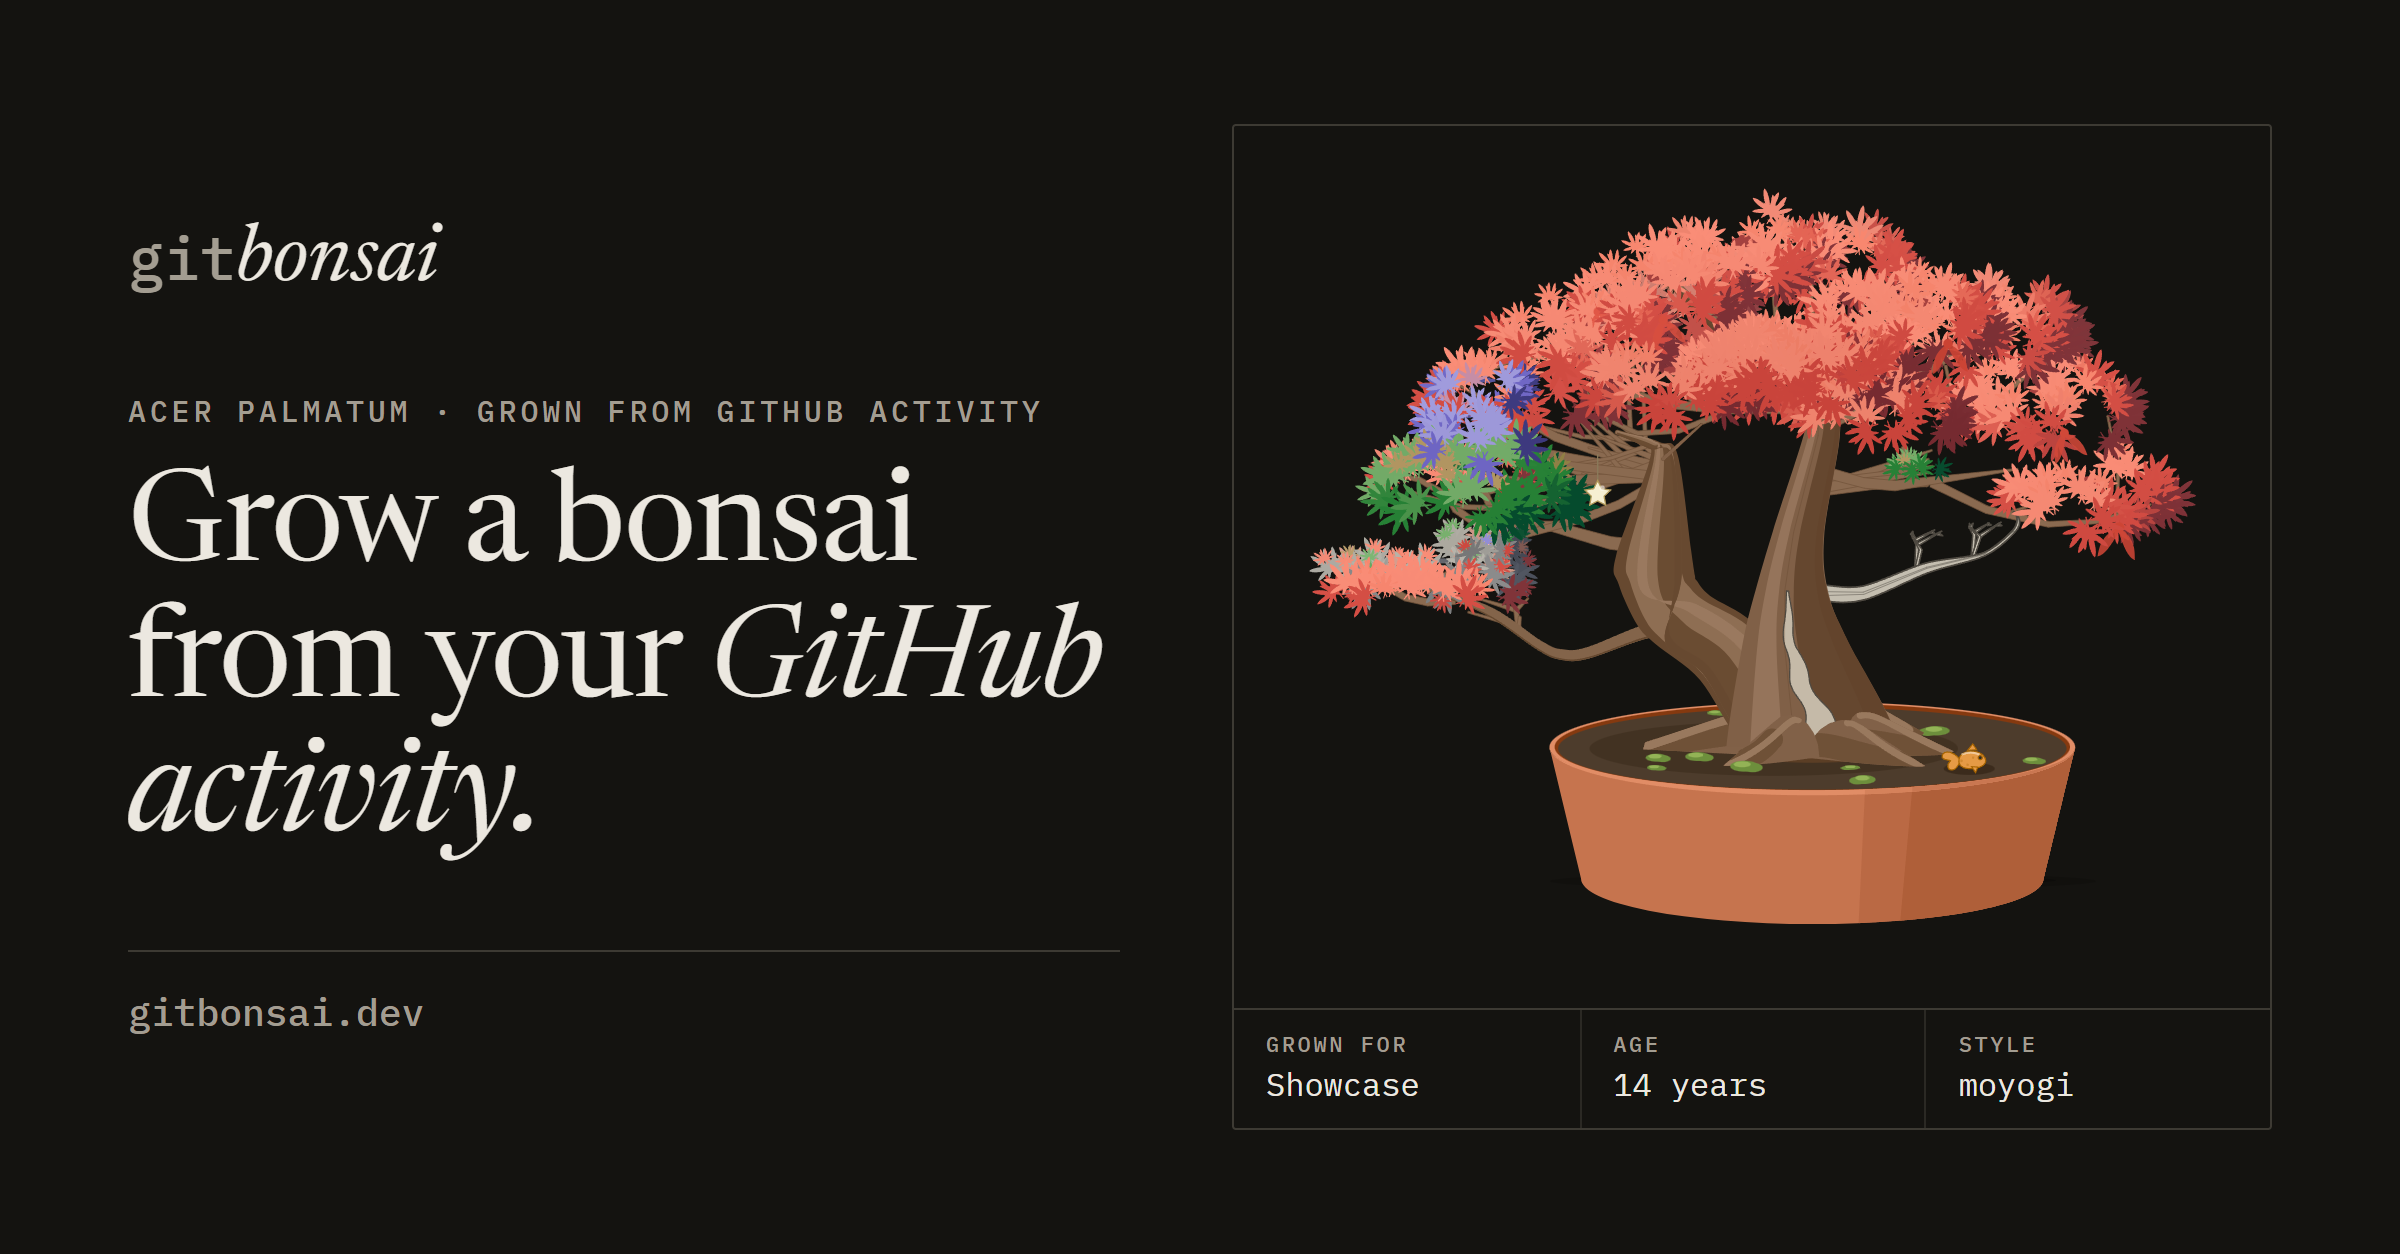
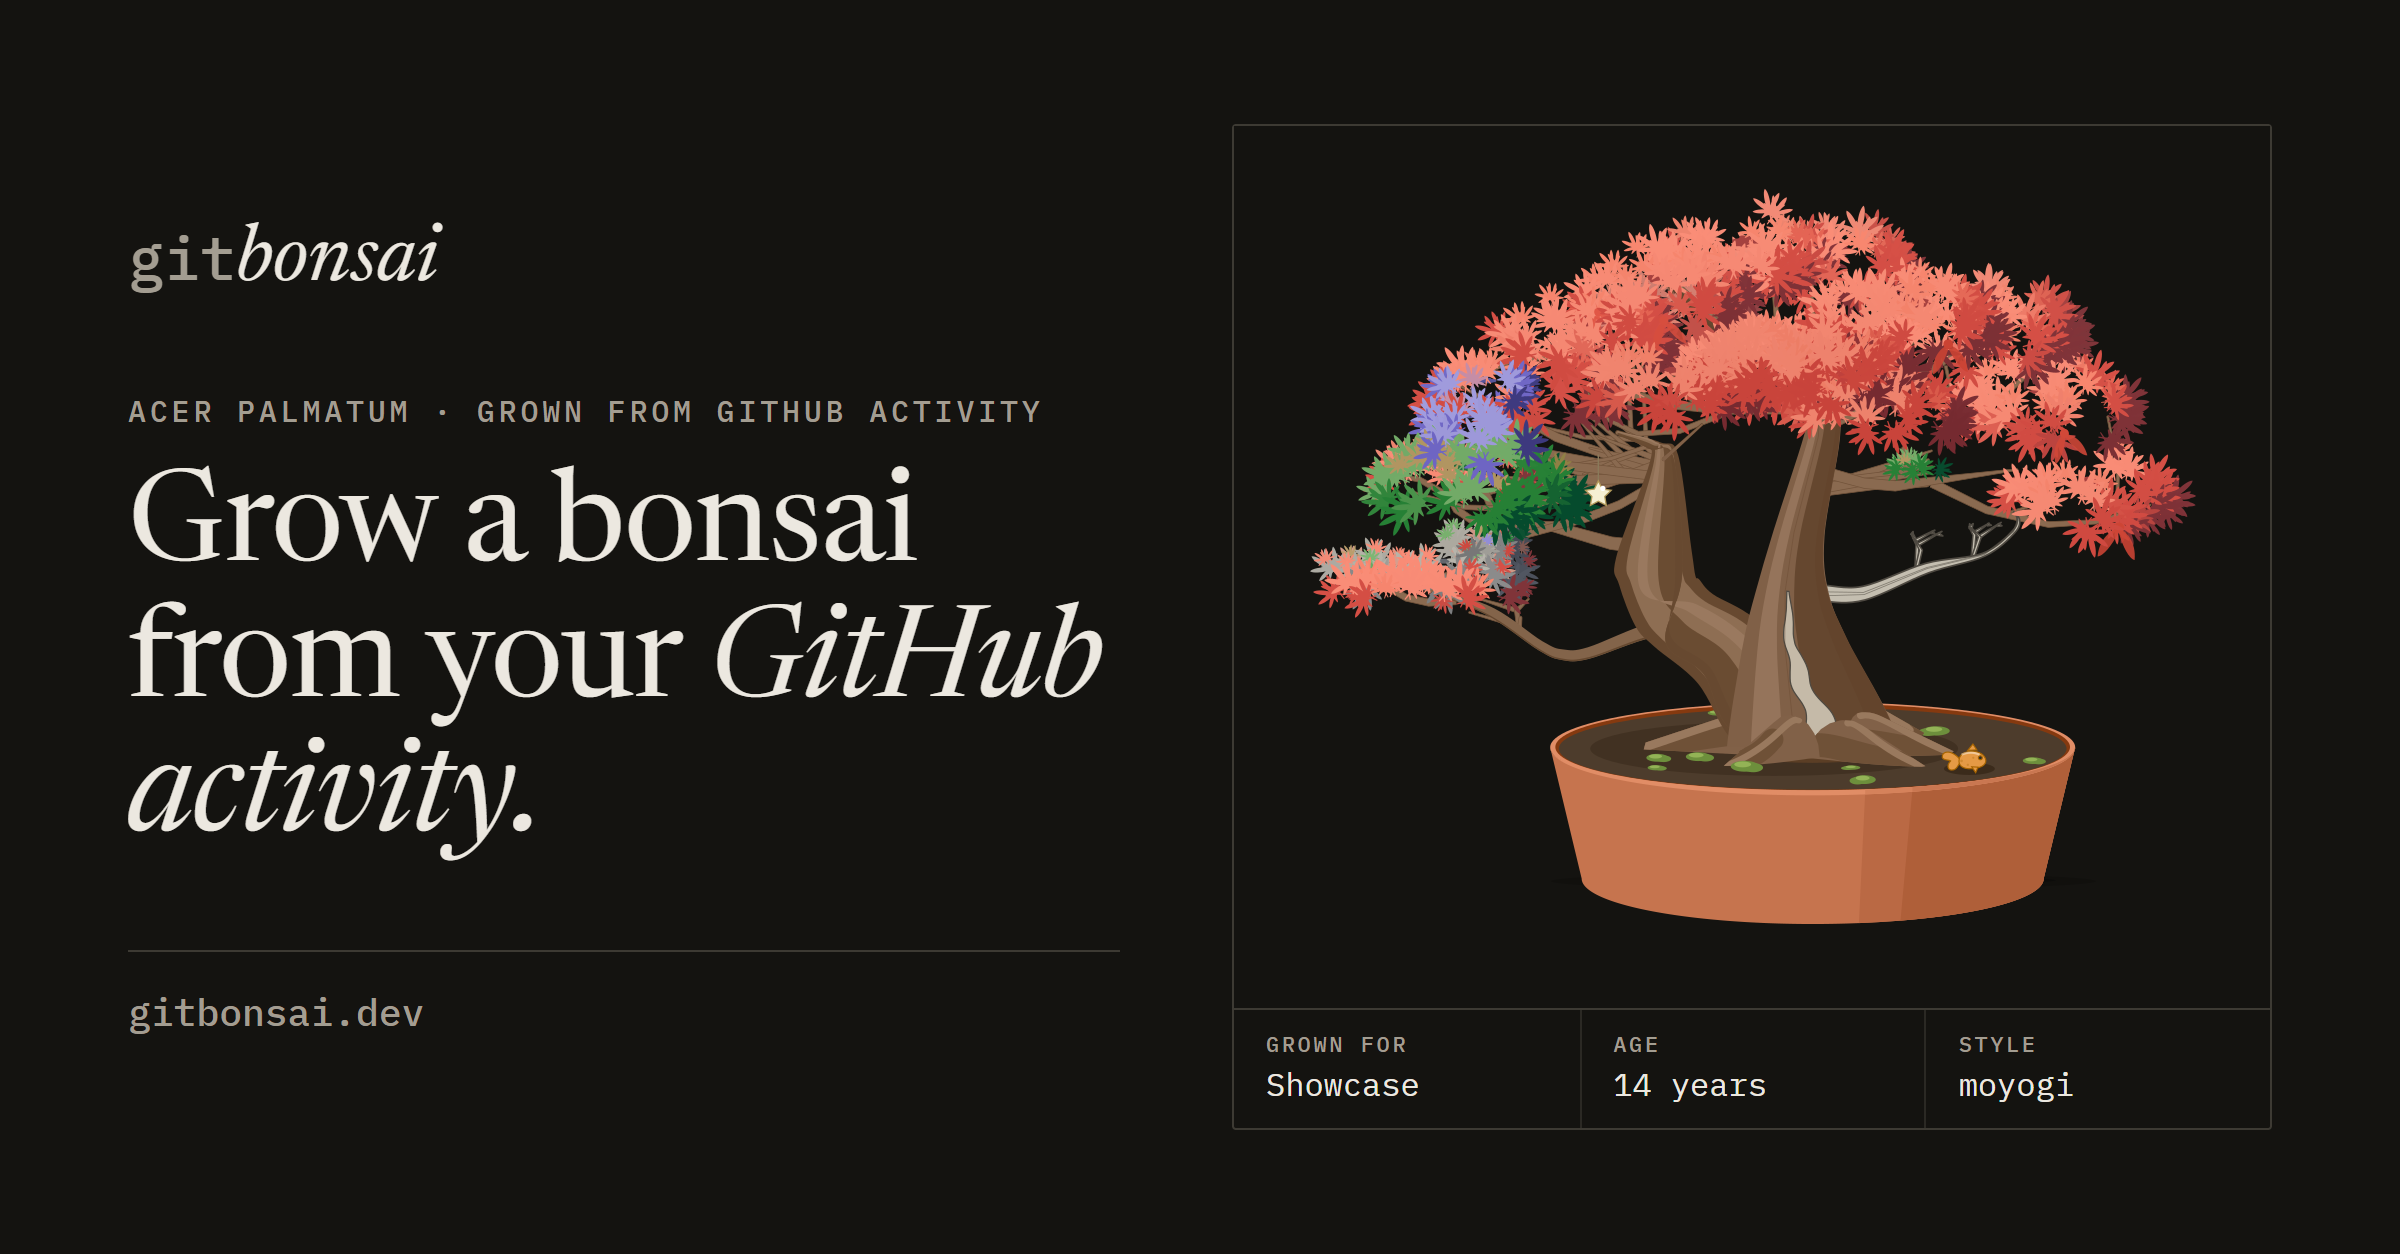
og image rendered with the trunk foot fix

Changed region(s): [[0.5312, 0.1866, 0.875, 0.4976], [0.7188, 0.1555, 0.75, 0.1866], [0.6562, 0.1866, 0.6875, 0.2177]]

diff --git a/site/index.html b/site/index.html
@@ -11,7 +11,7 @@
 <meta property="og:url" content="https://gitbonsai.dev/">
 <meta property="og:title" content="gitbonsai: grow a bonsai from your GitHub activity">
 <meta property="og:description" content="An animated SVG for a profile README. A newcomer is a thin sprout; years of work make it short, thick and wide, the way a prize bonsai is. Preview your own tree, then add it in three steps.">
-<meta property="og:image" content="https://gitbonsai.dev/og.png?v=7">
+<meta property="og:image" content="https://gitbonsai.dev/og.png?v=8">
 <meta property="og:image:width" content="2400">
 <meta property="og:image:height" content="1254">
 <meta property="og:image:alt" content="The gitbonsai wordmark and the line Grow a bonsai from your GitHub activity, next to a fourteen-year-old Japanese maple bonsai in a terracotta pot, on a plate">

diff --git a/site/exhibition.html b/site/exhibition.html
@@ -11,7 +11,7 @@
 <meta property="og:url" content="https://gitbonsai.dev/exhibition">
 <meta property="og:title" content="The gitbonsai exhibition: trees shown by their owners">
 <meta property="og:description" content="Bonsai grown from GitHub activity, put on show by their owners. Grow yours and show it.">
-<meta property="og:image" content="https://gitbonsai.dev/og.png?v=7">
+<meta property="og:image" content="https://gitbonsai.dev/og.png?v=8">
 <meta property="og:image:width" content="2400">
 <meta property="og:image:height" content="1254">
 <meta property="og:image:alt" content="The gitbonsai wordmark and the line Grow a bonsai from your GitHub activity, next to a fourteen-year-old Japanese maple bonsai in a terracotta pot, on a plate">
